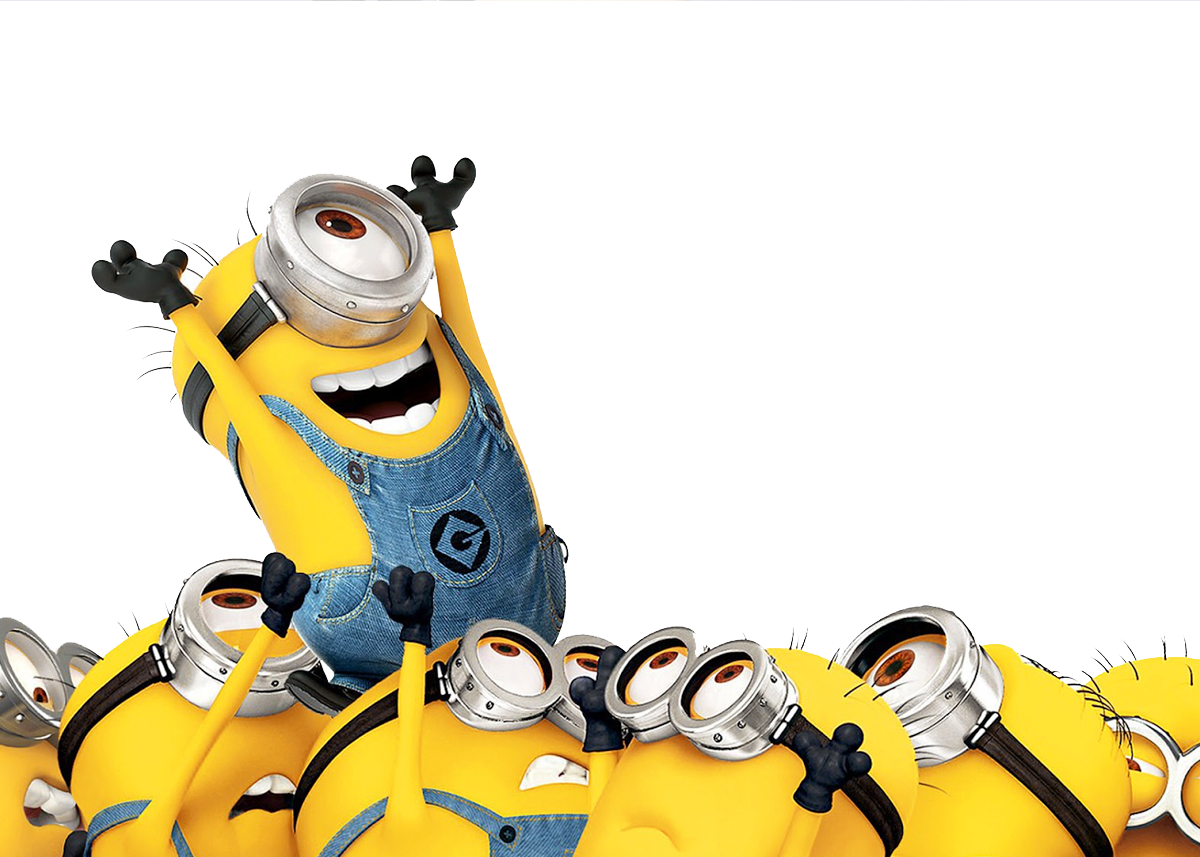
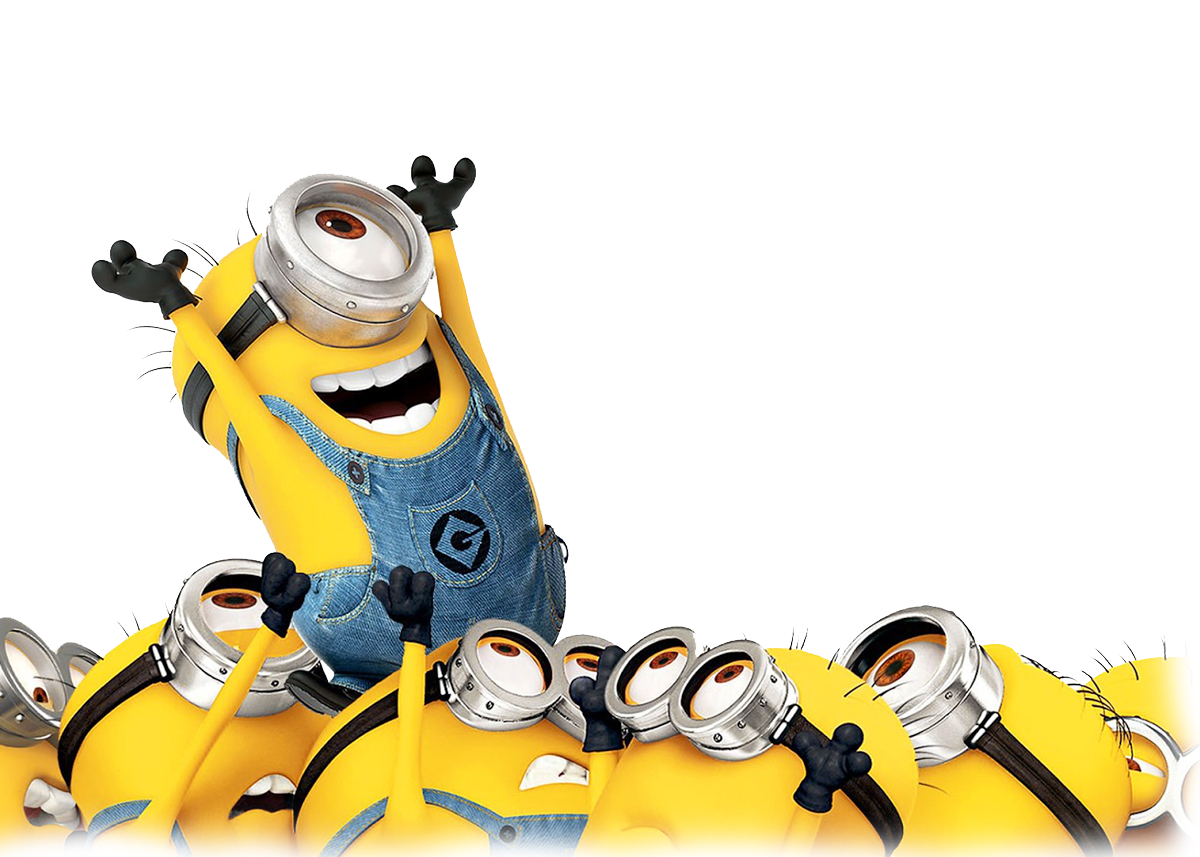
some changes

Changed region(s): [[0.0, 0.7585, 1.0, 1.0]]

diff --git a/src/components/HomePage/Home.js b/src/components/HomePage/Home.js
@@ -62,18 +62,16 @@ const Home = () => {
                     <div className="grid w-full">
                         <h1 className="font-bold text-4xl pl-14 pt-4 text-gray-600"><span className="drop-shadow-[-3px_3px_2px_rgba(0,0,0,0.3)]">Best Sellers</span> <span className=" text-orange-700 font-bold text-lg float-right mt-5 pr-10 hover:underline"><Link to={"*"}>See More...</Link></span></h1>
                         <div className="">
-                            <div className="hidden sm:grid md:max-w-4/5 w-full grid-flow-row grid-cols-1 md:grid-cols-3 sm:grid-cols-2 lg:grid-cols-4 p-10 gap-4">
+                            <div className="hidden sm:grid md:max-w-4/5 w-full grid-flow-row grid-cols-1 md:grid-cols-3 sm:grid-cols-2 lg:grid-cols-4 px-10 pt-5 gap-4">
                                 {Toys.slice(0 , 4).map(toy=>{
                                     return(
-                                        <Link to={"/toy/" + toy.Code}>
-                                            <div className="" key={toy.Code}>
-                                                <Card ops={toy.title} text={toy.ShortDescription} imageURL={toy.toyImages} />
-                                            </div>
-                                        </Link>
+                                        <div className="" key={toy.Code}>
+                                            <Card ops={toy.title} text={toy.ShortDescription}imageURL={toy.toyImages} />
+                                        </div>
                                     )
                                 })}
                             </div>
-                            <div className="md:hidden p-5 gap-4 flex flex-row">
+                            <div className="sm:hidden px-5 pt-5 gap-4 flex flex-row">
                                 {Toys.slice(0 , 2).map(toy=>{
                                     return(
                                         <div className="" key={toy.Code}>
@@ -85,18 +83,20 @@ const Home = () => {
                         
                         </div>
                     </div>
-                    <div className="pop-image w-0 lg:w-1/5 lg:pb-32 p-0 relative right-0 ">
+                    <div className="pop-image w-0 lg:w-1/5 lg:pb-10 p-0 relative right-0 ">
                         <img src="./img/pop-image.webp" className="h-96 lg:float-right lg:pr-10"/>
                     </div>
             </div>
-            <div className="special-offers bg-yellow-400 h-auto flex">
-                    <div className="w-1/3 h-auto relative">
-                        <div className="h-1/3 flex justify-center items-center font-thin text-2xl text-gray-600"> {timerComponents.length ? timerComponents : <span className="text-red-700 font-semibold text-3xl">Special offer has ended! </span>}</div>
+            <div className="special-offers bg-yellow-400 h-auto lg:pb-0 pb-10">
+            <h1 className="font-bold text-4xl pl-14 pt-6 text-gray-50"><span className="drop-shadow-[-3px_3px_2px_rgba(0,0,0,0.3)]">Special Offers</span></h1>
+            <div className="lg:flex grid">
+                    <div className="w-1/3 h-auto relative hidden lg:flex">
+                        <div className="h-1/3 flex justify-center items-center font-thin text-2xl text-gray-600 pl-5"> {timerComponents.length ? timerComponents : <span className="text-red-700 font-semibold text-3xl">Special offer has ended! </span>}</div>
                         <img src="./img/timer.png" className="w-full h-auto absolute bottom-0"/>
                     </div>
-                    <div className="offers w-2/3 h-full py-5 px-3">
-                        <Link to={"*"} className=" pt-3 pb-5 px-5 float-right hover:underline font-semibold text-lg text-blue-600">See more offers...</Link>
-                        <div className="flex flex-row w-full h-full gap-3">
+                    <div className="offers lg:w-2/3 w-full h-full pb-5 px-5">
+                        <Link to={"*"} className=" pt-3 pb-5 lg:px-5 px-2 float-right hover:underline font-semibold lg:text-lg text-base text-blue-600">See more offers...</Link>
+                        <div className="flex flex-row flex-wrap w-full h-full gap-3">
                             {Toys.slice(0 , 4).map(toy=>{
                                 return(
                                     <Link to={"/toy/" + toy.Code}>
@@ -108,6 +108,32 @@ const Home = () => {
                             })}
                         </div>
                     </div>
+            </div>
+            </div>
+            <div className="h-12 bg-gradient-to-b from-yellow-400 to-gray-50">
+
+            </div>
+
+
+
+
+
+
+
+
+
+
+
+
+
+
+
+
+
+            <div className="? h-96 relative">
+                <div className="absolute bottom-0">
+                    <img src="./img/minionLine.png" className=""/>
+                </div>
             </div>
         </div>
     );

diff --git a/src/components/NavFooter/Footer.js b/src/components/NavFooter/Footer.js
@@ -22,10 +22,10 @@ const Footer = () => {
                         <li>Home</li>
                     </Link>
                     <Link className='hover:text-red-600 ml-1'>
-                        <li>Store</li>
+                        <li>Account</li>
                     </Link >                    
                     <Link className='hover:text-red-600 ml-1'>
-                        <li>Account</li>
+                        <li>Contact us</li>
                     </Link>                    
                     <Link className='hover:text-red-600 ml-1'>
                         <li>Privacy Policy</li>
@@ -33,6 +33,9 @@ const Footer = () => {
                 </ul>
                 <ul className='flex-1 grid font-thin gap-2'>
                     <h1 className='font-semibold text-xl'>Buy Now</h1>
+                    <Link className='hover:text-red-600  ml-1'>
+                        <li>Store</li>
+                    </Link>
                     <Link className='hover:text-red-600 ml-1'>
                         <li>Best Sellers</li>
                     </Link>
@@ -40,11 +43,8 @@ const Footer = () => {
                         <li>special offers</li>
                     </Link>                    
                     <Link className='hover:text-red-600  ml-1'>
-                        <li>-</li>
+                        <li>Figure Action</li>
                     </Link>                    
-                    <Link className='hover:text-red-600  ml-1'>
-                        <li>-</li>
-                    </Link>
                 </ul>
                 <ul className='social-network grid my-5 '>
                     <div>

diff --git a/src/components/Cards/SecondCard.js b/src/components/Cards/SecondCard.js
@@ -21,13 +21,13 @@ export default function ActionAreaCard({ ops , text , imageURL , beforePrice ,pr
           image={    
             imageURL.slice(0,1)
         }
-          sx={{ height: 250}}
+          sx={{ height: 220}}
           alt={ops}
         />
         <CardContent
             sx={{ height: 160}}
         >
-          <Typography gutterBottom variant="h5" component="div">
+          <Typography gutterBottom variant="h6" component="div" sx={{ height: 28}} >
             {ops}
           </Typography>
           <div className='border-2 border-dashed border-gray-400 h-20 rounded-2xl bg-white'>
